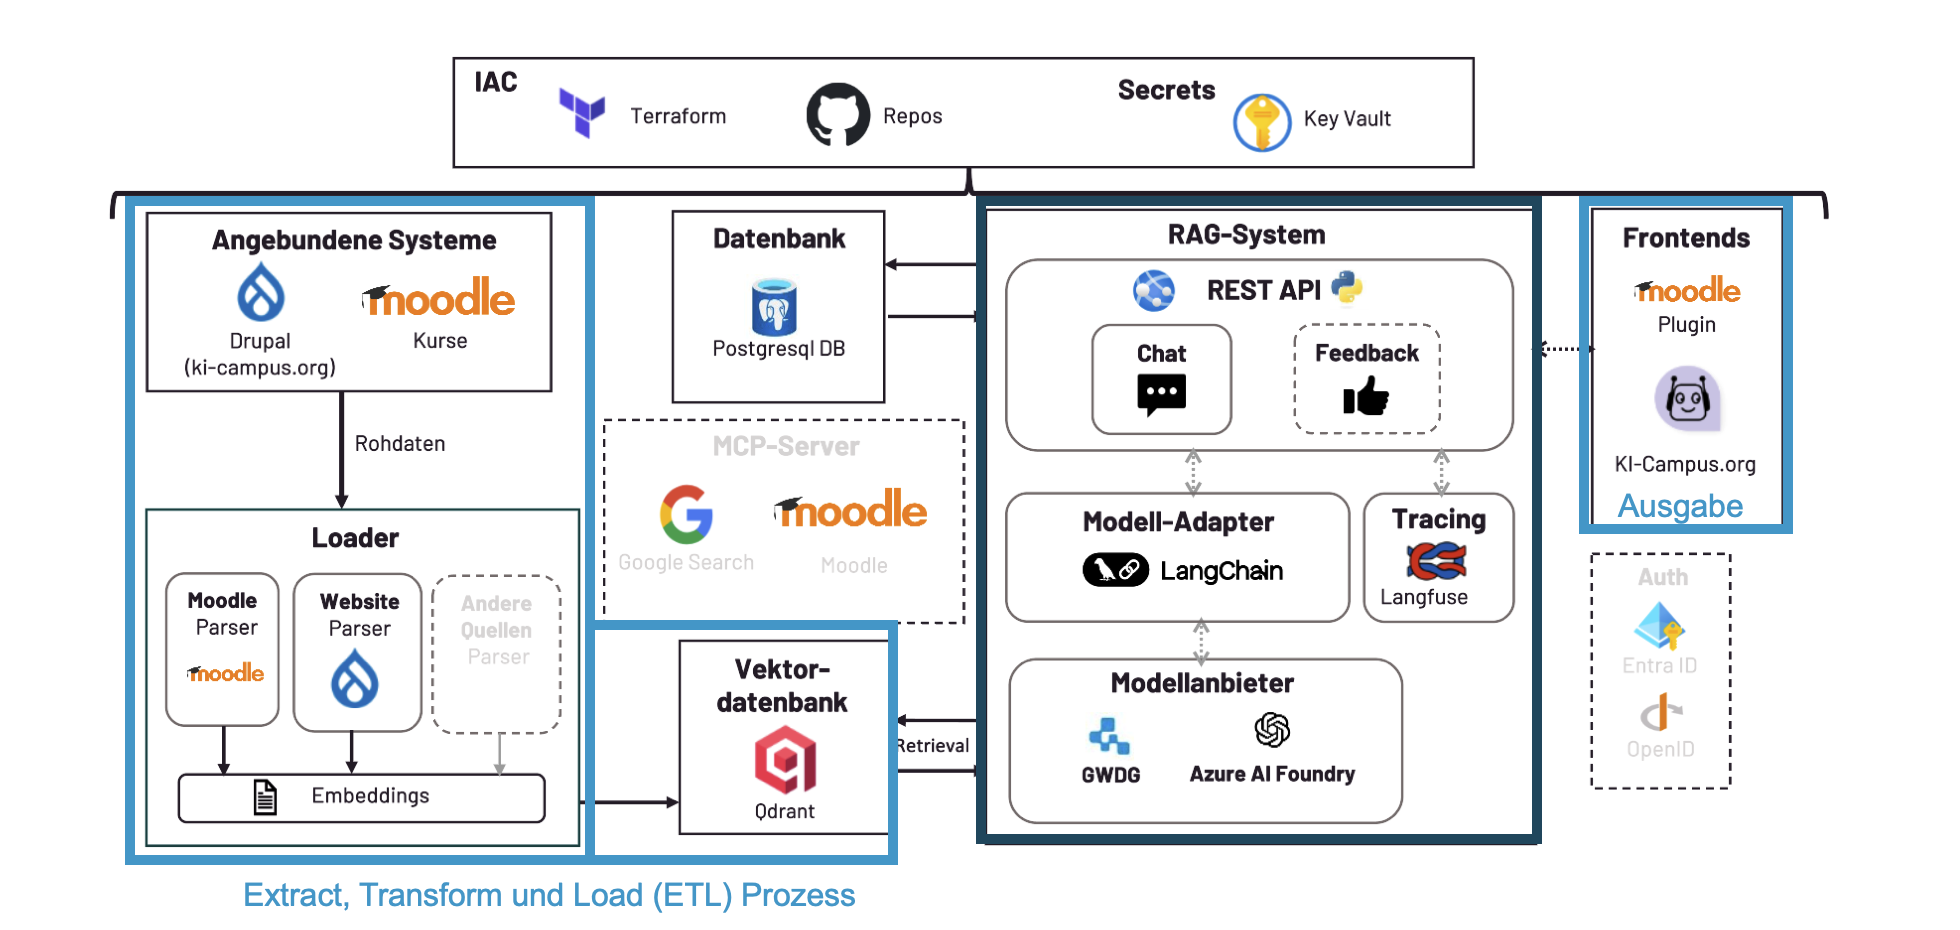
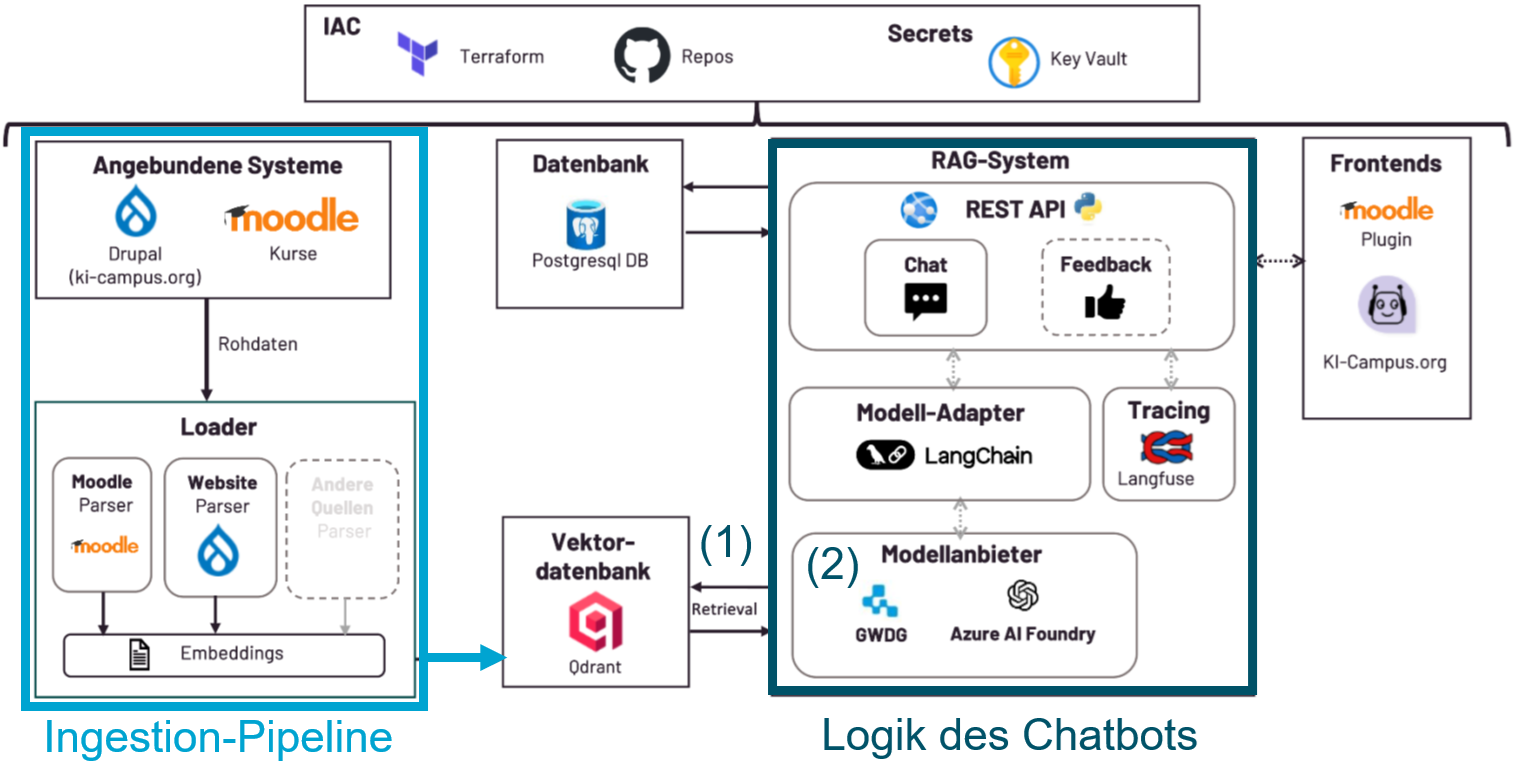
Architektur

Changed region(s): [[0.0, 0.0, 1.0, 0.9948]]

diff --git a/kapitel/02_kic.tex b/kapitel/02_kic.tex
@@ -1,58 +1,40 @@
 \chapter{Der KI-Campus-Chatbot}
 \label{sec:kic}
 
-Im Folgenden wird der KI-Campus-Chatbot als Untersuchungsgegenstand dieser Arbeit näher beschrieben. Ziel ist es, die bestehende Systemarchitektur sowie den funktionalen Ablauf des RAG-Systems transparent darzustellen, da diese die Grundlage für die im Projekt durchgeführten Weiterentwicklungen und Evaluationsmaßnahmen bilden.
-
 \section{Systemarchitektur des KI-Campus-Chatbots}
 
-Die Architektur des Chatbots folgt einem modularen Aufbau, bei dem Nutzerinteraktion, Wissensspeicherung und Antwortgenerierung funktional voneinander getrennt sind. Ziel dieser Struktur ist es, generative Sprachfähigkeiten mit einer kontrollierten, domänenspezifischen Wissensbasis zu verbinden. Abbildung~\ref{fig:kic-architektur} zeigt die technische Systemarchitektur mit den relevanten Datenquellen, Verarbeitungskomponenten und dem Frontendanschluss.
+Zum Start der Ausführungen werden die zentralen Komponenten des KI-Campus-Chatbots beschrieben. Die Architektur folgt einem modularen Aufbau, bei dem Nutzerinteraktion, Wissensspeicherung und Antwortgenerierung funktional voneinander getrennt sind. Ziel dieser Struktur ist es, generative Sprachfähigkeiten mit einer domänenspezifischen Wissensbasis zu verbinden. \autoref{fig:kic-architektur} zeigt die technische Systemarchitektur mit den relevanten Datenquellen, Verarbeitungskomponenten und dem Frontendanschluss.
 
-% Ist nicht Moodle auch Content Management System? Drupal ist doch "einfach" Landing Page?
-Zentraler Bestandteil des Systems ist eine externe Wissensbasis, die Inhalte aus dem Lernmanagementsystem (Moodle) sowie der statischen Landingpage (Drupal) des KI-Campus integriert. Diese Inhalte umfassen Kursbeschreibungen, Lernmaterialien, Informationsseiten und weitere textbasierte Ressourcen. Aufgrund der heterogenen Struktur und unterschiedlichen Formate der Quelldaten erfolgt eine systematische Vorverarbeitung, um die Inhalte in eine für das RAG geeignete Form zu überführen.
+Zentraler Bestandteil des Systems ist eine externe Wissensbasis, die Inhalte aus dem Lernmanagementsystem (Moodle) sowie der Landingpage (Drupal) des KI-Campus integriert. Eine Ingestion-Pipeline extrahiert die Daten, transformiert diese in Vektoren und speichert sie in einer Vektordatenbank (Qdrant). Die Inhalte umfassen Kursbeschreibungen, Lernmaterialien, Informationsseiten und weitere textbasierte Ressourcen. Die Repräsentation als Vektor erlaubt es mittels Ähnlichkeitsmaßen relevante Informationen für Nutzeranfragen zu identifizieren.
 
-Die verarbeiteten Inhalte werden in einer Vektordatenbank gespeichert, die eine semantische Suche auf Basis von Ähnlichkeitsmaßen ermöglicht. Dadurch kann das System bei einer Nutzeranfrage relevante Textsegmente identifizieren, die als kontextuelle Grundlage für die Antwortgenerierung dienen.
-
-Die Generierungskomponente basiert auf einem großen Sprachmodell (LLM, hier GPT-4), das die Nutzeranfrage gemeinsam mit den abgerufenen Kontextinformationen verarbeitet. Durch diese Kombination wird sichergestellt, dass Antworten nicht ausschließlich auf dem Trainingswissen des Modells beruhen, sondern auf der spezifischen Wissensbasis des KI-Campus aufbauen.
+Die zweite zentrale Komponente ist die Logik des Chatbots, die auf Retrieval-Augmented Generation basiert. Das Retrieval-System holt relevante Informationen aus der Wissensbasis (1), während die Generierungskomponente, die ein klassisches Large Language Model nutzt (2), die Nutzeranfrage gemeinsam mit den abgerufenen Kontextinformationen verarbeitet. Durch diese Kombination wird sichergestellt, dass Antworten nicht ausschließlich auf dem Trainingswissen des Modells beruhen, sondern auf der spezifischen Wissensbasis des KI-Campus aufbauen. Die Nutzenden erhalten die Antwort dann im Frontend.
 
 Die Systemarchitektur ist somit durch drei zentrale Komponenten geprägt:
 \begin{itemize}
     \item eine strukturierte Wissensbasis,
-    \item ein semantisches Retrieval-Modul und
-    \item eine generative Sprachmodell-Komponente.
+    \item ein Retrieval-System und
+    \item eine generative Sprachmodellkomponente.
 \end{itemize}
 Diese funktionale Trennung bildet die Grundlage für die im Projekt durchgeführten Weiterentwicklungen und Evaluationsmaßnahmen.
 
-% Bild vervollständigen
 \begin{figure}[H]
     \centering
     \includegraphics[width=\textwidth]{systemarchitektur_kic.png}
-    \caption{Systemarchitektur des KI-Campus-Chatbots mit Datenquellen, Retrieval-System und Frontends.}
+    \caption{Systemarchitektur des KI-Campus-Chatbots}
     \label{fig:kic-architektur}
 \end{figure}
 
 \section{Workflow des Retrieval-Augmented-Generation-Systems}
 
-Der operative Ablauf des Chatbots folgt einem klar strukturierten Workflow, der die Prinzipien der Retrieval-Augmented Generation umsetzt.
+Das Retrieval-Augmented-Generation-System legt als Logik des Chatbots die Grundlage jeglicher Antworten und ist damit ein zentraler Bestandteil für die Qualität dieser. \autoref{fig:kic-workflow} zeigt den konzeptionellen Workflow der aktuellen Implementierung, der als Grundlage für Weiterentwicklungen dient.
 
-Zunächst gibt ein Nutzer eine Anfrage im Frontend der Lernplattform ein. Diese Anfrage wird an das Backend-System übermittelt und dort semantisch verarbeitet. Auf Grundlage der Anfrage wird eine Vektorrepräsentation erzeugt, die mit den in der Wissensbasis gespeicherten Dokumenten verglichen wird.
+Die erste Komponente ist ein Contextualizer, der eine eingehende Nutzeranfrage reformuliert. Durch eine Kontextualisierung wird eine Anfrage in den Kontext des Dialogs gebracht, weil Folgenachrichten häufig nicht mehr alle notwendigen Infromationen für ein sinnvolles Retrieval enthalten.
 
-Im nächsten Schritt identifiziert das Retrieval-Modul diejenigen Textsegmente, die inhaltlich am stärksten mit der Nutzeranfrage übereinstimmen. Diese relevanten Dokumentausschnitte werden anschließend dem Sprachmodell als zusätzlicher Kontext bereitgestellt.
+Hierauf folgt das Retrieval-System. Der KI-Campus-Chatbot nutzt ein semantisches Retrieval, dass auf Basis der semantischen Ähnlichkeit zwischen der Nutzeranfrage und den in der Wissensbasis gespeicherten Dokumenten relevante Informationen identifiziert. Hierbei werden die fünf relevantesten Dokumentausschnitte abgerufen.
 
-Das Sprachmodell generiert daraufhin eine Antwort, die sowohl die ursprüngliche Nutzeranfrage als auch die abgerufenen Kontextinformationen berücksichtigt. Dadurch entsteht eine kontextualisierte und auf die KI-Campus-Inhalte bezogene Antwort.
+Diese Abschnitte dienen dann als Kontext für die Generierungskomponente, die ein klassisches LLM nutzt. Kontext, Chathistorie und Systemanweisungen in Form eines Systemprompts werden von diesem LLM genutzt, um eine grundierte Antwort zu generieren. Das System ist so konzipiert, dass es bei unzureichendem Kontext auf vordefinierte Antwortstrategien zurückgreift, um die Verbreitung von Fehlinformationen zu vermeiden.
 
-Falls keine ausreichenden Kontextinformationen identifiziert werden können, greift das System auf vordefinierte Antwortstrategien zurück, um Fehlinformationen zu vermeiden.
-
-Der Workflow lässt sich somit in vier Hauptschritte unterteilen:
-\begin{enumerate}
-    \item Nutzeranfrage
-    \item semantisches Retrieval
-    \item kontextbasierte Antwortgenerierung
-    \item Ausgabe im Frontend
-\end{enumerate}
-
-Diese Abfolge bildet die funktionale Grundlage des Systems und dient als Ausgangspunkt für die im weiteren Verlauf des Projekts durchgeführten Optimierungen.
-
-Abbildung~\ref{fig:kic-workflow} visualisiert die einzelnen Prozessschritte des RAG-Workflows.
+Die letzte Komponente ist das Postprocessing, bei dem die generierte Antwort um die verwendeten Quellen angereichert wird, um eine hohe Transparenz und Nachvollziehbarkeit der Informationen zu gewährleisten. Diese Antwort wird schließlich im Frontend der Lernplattform ausgegeben.
 
 \begin{figure}[H]
     \centering
@@ -60,7 +42,3 @@ Abbildung~\ref{fig:kic-workflow} visualisiert die einzelnen Prozessschritte des 
     \caption{Konzeptioneller Workflow des KI-Campus-Chatbots.}
     \label{fig:kic-workflow}
 \end{figure}
-
-Trotz der modularen Architektur und des klar strukturierten Workflows zeigten sich zum Projektstart mehrere strukturelle und funktionale Limitationen. Dazu zählen eine teilweise eingeschränkte Kontextsensitivität, eine starre No-Answer-Logik sowie eine begrenzte Sprachrobustheit. Darüber hinaus zeigte sich, dass die Datenpipeline nicht alle verfügbaren Inhalte vollständig oder konsistent verarbeitete.
-
-Diese strukturellen Eigenschaften bildeten den Ausgangspunkt für die im weiteren Verlauf des Projekts entwickelte Weiterentwicklung und Evaluation des Systems.
